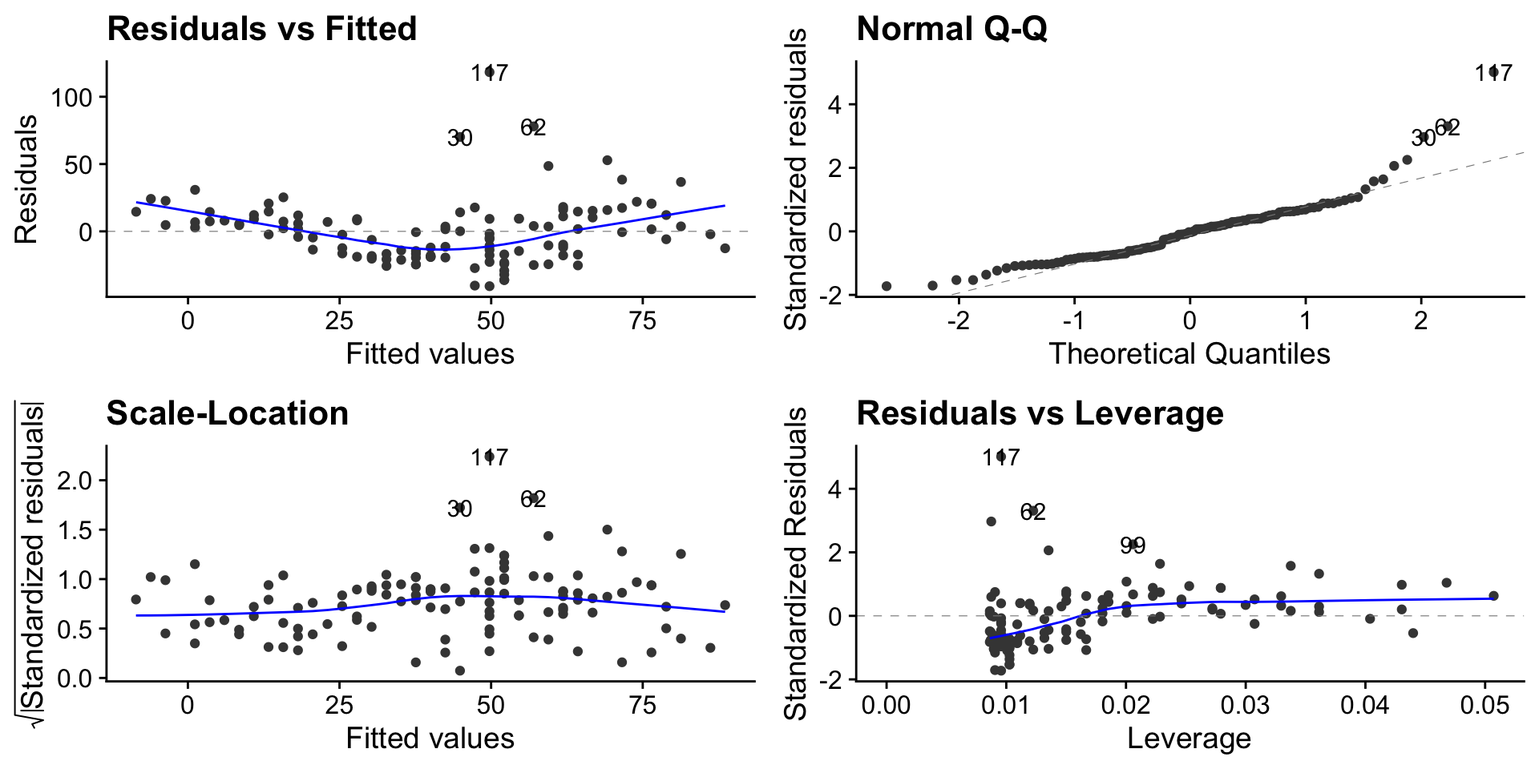
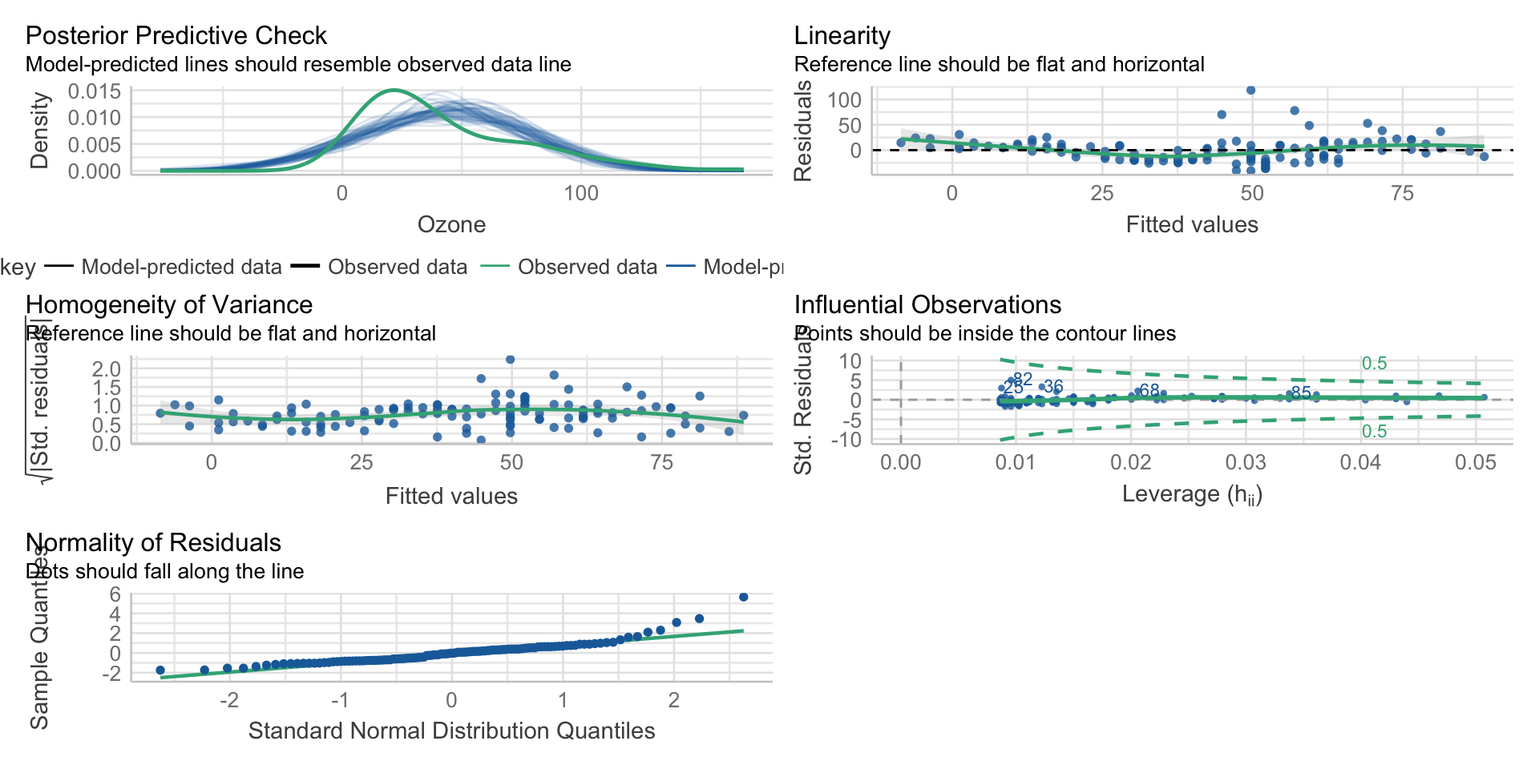
update notes on prediction

diff --git a/index.html b/index.html
@@ -1121,14 +1121,15 @@ F-statistic: 246.8 on 1 and 926 DF,  p-value: &lt; 2.2e-16</code></pre>
 </div>
 </div>
 <div class="fragment">
-<p>What is the predicted child heights for parents of height 70, 72, and 73 inches?</p>
-<div class="cell" data-hash="index_cache/revealjs/unnamed-chunk-33_a9f883f6fe72900d9447d484e6cf95c1">
-<div class="sourceCode cell-code" id="cb48"><pre class="sourceCode numberSource r number-lines code-with-copy"><code class="sourceCode r"><span id="cb48-1"><a href="#cb48-1"></a><span class="fu">predict</span>(fit, <span class="fu">data.frame</span>(<span class="at">parent =</span> <span class="fu">c</span>(<span class="dv">70</span>, <span class="dv">72</span>, <span class="dv">73</span>)))</span></code><button title="Copy to Clipboard" class="code-copy-button"><i class="bi"></i></button></pre></div>
-<div class="cell-output cell-output-stdout">
-<pre><code>       1        2        3 
-69.18187 70.47445 71.12074 </code></pre>
-</div>
-</div>
+<ul>
+<li>Need to consider:
+<ul>
+<li>Prediction quality</li>
+<li>Prediction performance</li>
+<li><strong>Week 9 - Predictive modelling</strong></li>
+</ul>
+</li>
+</ul>
 </div>
 </section></section><section><section id="transformations" class="title-slide slide level1 center"><h1>Transformations</h1>
 <p>What if assumptions are not met, or we want to improve the model?</p>
@@ -1163,9 +1164,9 @@ F-statistic: 246.8 on 1 and 926 DF,  p-value: &lt; 2.2e-16</code></pre>
 </div>
 </section><section id="new-example-air-quality" class="slide level2"><h2>New example: Air quality</h2>
 <p>Daily air quality measurements in New York, May to September 1973</p>
-<div class="cell" data-hash="index_cache/revealjs/unnamed-chunk-34_cd545899572bb9349321493e538954b6">
-<div class="sourceCode cell-code" id="cb50"><pre class="sourceCode numberSource r number-lines code-with-copy"><code class="sourceCode r"><span id="cb50-1"><a href="#cb50-1"></a><span class="fu">library</span>(tidyverse)</span>
-<span id="cb50-2"><a href="#cb50-2"></a><span class="fu">glimpse</span>(airquality)</span></code><button title="Copy to Clipboard" class="code-copy-button"><i class="bi"></i></button></pre></div>
+<div class="cell" data-hash="index_cache/revealjs/unnamed-chunk-33_6de077b5b53d178e723e55b09e2f71c2">
+<div class="sourceCode cell-code" id="cb48"><pre class="sourceCode numberSource r number-lines code-with-copy"><code class="sourceCode r"><span id="cb48-1"><a href="#cb48-1"></a><span class="fu">library</span>(tidyverse)</span>
+<span id="cb48-2"><a href="#cb48-2"></a><span class="fu">glimpse</span>(airquality)</span></code><button title="Copy to Clipboard" class="code-copy-button"><i class="bi"></i></button></pre></div>
 <div class="cell-output cell-output-stdout">
 <pre><code>Rows: 153
 Columns: 6
@@ -1178,28 +1179,28 @@ $ Day     &lt;int&gt; 1, 2, 3, 4, 5, 6, 7, 8, 9, 10, 11, 12, 13, 14, 15, 16, 17,
 </div>
 </div>
 </section><section id="is-ozone-concentration-influenced-by-temperature" class="slide level2"><h2>Is Ozone concentration influenced by Temperature?</h2>
-<div class="cell" data-hash="index_cache/revealjs/unnamed-chunk-35_845368f028b7356d26759ef4d1d0266f">
-<div class="sourceCode cell-code" id="cb52"><pre class="sourceCode numberSource r number-lines code-with-copy"><code class="sourceCode r"><span id="cb52-1"><a href="#cb52-1"></a><span class="fu">ggplot</span>(airquality, <span class="fu">aes</span>(<span class="at">x =</span> Temp, <span class="at">y =</span> Ozone)) <span class="sc">+</span></span>
-<span id="cb52-2"><a href="#cb52-2"></a>  <span class="fu">geom_point</span>(<span class="at">alpha =</span> .<span class="dv">2</span>, <span class="at">size =</span> <span class="dv">3</span>) <span class="sc">+</span></span>
-<span id="cb52-3"><a href="#cb52-3"></a>  <span class="fu">labs</span>(</span>
-<span id="cb52-4"><a href="#cb52-4"></a>    <span class="at">x =</span> <span class="fu">expression</span>(<span class="st">"Temperature "</span> ( degree<span class="sc">~</span>C)), </span>
-<span id="cb52-5"><a href="#cb52-5"></a>    <span class="at">y =</span> <span class="st">"Ozone (parts per billion)"</span>) <span class="sc">+</span></span>
-<span id="cb52-6"><a href="#cb52-6"></a>  <span class="fu">geom_smooth</span>(<span class="at">method =</span> <span class="st">"lm"</span>, <span class="at">se =</span> <span class="cn">FALSE</span>)</span></code><button title="Copy to Clipboard" class="code-copy-button"><i class="bi"></i></button></pre></div>
+<div class="cell" data-hash="index_cache/revealjs/unnamed-chunk-34_7fad00c8ccb6ff2696fd3ac916247622">
+<div class="sourceCode cell-code" id="cb50"><pre class="sourceCode numberSource r number-lines code-with-copy"><code class="sourceCode r"><span id="cb50-1"><a href="#cb50-1"></a><span class="fu">ggplot</span>(airquality, <span class="fu">aes</span>(<span class="at">x =</span> Temp, <span class="at">y =</span> Ozone)) <span class="sc">+</span></span>
+<span id="cb50-2"><a href="#cb50-2"></a>  <span class="fu">geom_point</span>(<span class="at">alpha =</span> .<span class="dv">2</span>, <span class="at">size =</span> <span class="dv">3</span>) <span class="sc">+</span></span>
+<span id="cb50-3"><a href="#cb50-3"></a>  <span class="fu">labs</span>(</span>
+<span id="cb50-4"><a href="#cb50-4"></a>    <span class="at">x =</span> <span class="fu">expression</span>(<span class="st">"Temperature "</span> ( degree<span class="sc">~</span>C)), </span>
+<span id="cb50-5"><a href="#cb50-5"></a>    <span class="at">y =</span> <span class="st">"Ozone (parts per billion)"</span>) <span class="sc">+</span></span>
+<span id="cb50-6"><a href="#cb50-6"></a>  <span class="fu">geom_smooth</span>(<span class="at">method =</span> <span class="st">"lm"</span>, <span class="at">se =</span> <span class="cn">FALSE</span>)</span></code><button title="Copy to Clipboard" class="code-copy-button"><i class="bi"></i></button></pre></div>
 
 </div>
-<img data-src="index_files/figure-revealjs/unnamed-chunk-35-1.png" width="960" class="r-stretch"></section><section id="assumption-checks" class="slide level2"><h2>Assumption checks</h2>
-<div class="cell" data-hash="index_cache/revealjs/unnamed-chunk-36_71796e8d2acdfab81230031130b2be9d">
-<div class="sourceCode cell-code" id="cb53"><pre class="sourceCode numberSource r number-lines code-with-copy"><code class="sourceCode r"><span id="cb53-1"><a href="#cb53-1"></a>fit <span class="ot">&lt;-</span> <span class="fu">lm</span>(Ozone <span class="sc">~</span> Temp, <span class="at">data =</span> airquality)</span>
-<span id="cb53-2"><a href="#cb53-2"></a><span class="fu">library</span>(ggfortify)</span>
-<span id="cb53-3"><a href="#cb53-3"></a><span class="fu">autoplot</span>(fit)</span></code><button title="Copy to Clipboard" class="code-copy-button"><i class="bi"></i></button></pre></div>
+<img data-src="index_files/figure-revealjs/unnamed-chunk-34-1.png" width="960" class="r-stretch"></section><section id="assumption-checks" class="slide level2"><h2>Assumption checks</h2>
+<div class="cell" data-hash="index_cache/revealjs/unnamed-chunk-35_8ea8427c4d700d1098eff93bf813678f">
+<div class="sourceCode cell-code" id="cb51"><pre class="sourceCode numberSource r number-lines code-with-copy"><code class="sourceCode r"><span id="cb51-1"><a href="#cb51-1"></a>fit <span class="ot">&lt;-</span> <span class="fu">lm</span>(Ozone <span class="sc">~</span> Temp, <span class="at">data =</span> airquality)</span>
+<span id="cb51-2"><a href="#cb51-2"></a><span class="fu">library</span>(ggfortify)</span>
+<span id="cb51-3"><a href="#cb51-3"></a><span class="fu">autoplot</span>(fit)</span></code><button title="Copy to Clipboard" class="code-copy-button"><i class="bi"></i></button></pre></div>
+
+</div>
+<img data-src="index_files/figure-revealjs/unnamed-chunk-35-1.png" width="960" class="r-stretch"><p>Is a simple liner model appropriate?</p>
+</section><section class="slide level2"><div class="cell" data-hash="index_cache/revealjs/unnamed-chunk-36_d289d4b90542f43c6366b9c4bf81acd4">
+<div class="sourceCode cell-code" id="cb52"><pre class="sourceCode numberSource r number-lines code-with-copy"><code class="sourceCode r"><span id="cb52-1"><a href="#cb52-1"></a>performance<span class="sc">::</span><span class="fu">check_model</span>(fit)</span></code><button title="Copy to Clipboard" class="code-copy-button"><i class="bi"></i></button></pre></div>
 
 </div>
 <img data-src="index_files/figure-revealjs/unnamed-chunk-36-1.png" width="960" class="r-stretch"><p>Is a simple liner model appropriate?</p>
-</section><section class="slide level2"><div class="cell" data-hash="index_cache/revealjs/unnamed-chunk-37_143627f7b2244fa7b68e29f8ae8ec6b2">
-<div class="sourceCode cell-code" id="cb54"><pre class="sourceCode numberSource r number-lines code-with-copy"><code class="sourceCode r"><span id="cb54-1"><a href="#cb54-1"></a>performance<span class="sc">::</span><span class="fu">check_model</span>(fit)</span></code><button title="Copy to Clipboard" class="code-copy-button"><i class="bi"></i></button></pre></div>
-
-</div>
-<img data-src="index_files/figure-revealjs/unnamed-chunk-37-1.png" width="960" class="r-stretch"><p>Is a simple liner model appropriate?</p>
 <div class="fragment">
 <p><em>Depends on your threshold for what is acceptable.</em></p>
 </div>
@@ -1232,15 +1233,15 @@ $ Day     &lt;int&gt; 1, 2, 3, 4, 5, 6, 7, 8, 9, 10, 11, 12, 13, 14, 15, 16, 17,
 <div class="fragment">
 <!-- -->
 <h3 id="before">Before</h3>
-<div class="cell" data-hash="index_cache/revealjs/unnamed-chunk-38_bcfc55d94725dc3f1236fb5b12b4eb56">
-<div class="sourceCode cell-code" id="cb55"><pre class="sourceCode numberSource r number-lines code-with-copy"><code class="sourceCode r"><span id="cb55-1"><a href="#cb55-1"></a><span class="fu">ggplot</span>(airquality, <span class="fu">aes</span>(<span class="at">x =</span> Temp, <span class="at">y =</span> Ozone)) <span class="sc">+</span></span>
-<span id="cb55-2"><a href="#cb55-2"></a>  <span class="fu">geom_point</span>(<span class="at">alpha =</span> .<span class="dv">2</span>, <span class="at">size =</span> <span class="dv">3</span>) <span class="sc">+</span></span>
-<span id="cb55-3"><a href="#cb55-3"></a>  <span class="fu">labs</span>(</span>
-<span id="cb55-4"><a href="#cb55-4"></a>    <span class="at">x =</span> <span class="fu">expression</span>(<span class="st">"Temperature "</span> ( degree<span class="sc">~</span>C)), </span>
-<span id="cb55-5"><a href="#cb55-5"></a>    <span class="at">y =</span> <span class="st">"Ozone (parts per billion)"</span>) <span class="sc">+</span></span>
-<span id="cb55-6"><a href="#cb55-6"></a>  <span class="fu">geom_smooth</span>(<span class="at">method =</span> <span class="st">"lm"</span>, <span class="at">se =</span> <span class="cn">FALSE</span>) </span></code><button title="Copy to Clipboard" class="code-copy-button"><i class="bi"></i></button></pre></div>
+<div class="cell" data-hash="index_cache/revealjs/unnamed-chunk-37_54f1d385d7f368b426f0b7788a43b6b4">
+<div class="sourceCode cell-code" id="cb53"><pre class="sourceCode numberSource r number-lines code-with-copy"><code class="sourceCode r"><span id="cb53-1"><a href="#cb53-1"></a><span class="fu">ggplot</span>(airquality, <span class="fu">aes</span>(<span class="at">x =</span> Temp, <span class="at">y =</span> Ozone)) <span class="sc">+</span></span>
+<span id="cb53-2"><a href="#cb53-2"></a>  <span class="fu">geom_point</span>(<span class="at">alpha =</span> .<span class="dv">2</span>, <span class="at">size =</span> <span class="dv">3</span>) <span class="sc">+</span></span>
+<span id="cb53-3"><a href="#cb53-3"></a>  <span class="fu">labs</span>(</span>
+<span id="cb53-4"><a href="#cb53-4"></a>    <span class="at">x =</span> <span class="fu">expression</span>(<span class="st">"Temperature "</span> ( degree<span class="sc">~</span>C)), </span>
+<span id="cb53-5"><a href="#cb53-5"></a>    <span class="at">y =</span> <span class="st">"Ozone (parts per billion)"</span>) <span class="sc">+</span></span>
+<span id="cb53-6"><a href="#cb53-6"></a>  <span class="fu">geom_smooth</span>(<span class="at">method =</span> <span class="st">"lm"</span>, <span class="at">se =</span> <span class="cn">FALSE</span>) </span></code><button title="Copy to Clipboard" class="code-copy-button"><i class="bi"></i></button></pre></div>
 <div class="cell-output-display">
-<p><img data-src="index_files/figure-revealjs/unnamed-chunk-38-1.png" width="960"></p>
+<p><img data-src="index_files/figure-revealjs/unnamed-chunk-37-1.png" width="960"></p>
 </div>
 </div>
 </div>
@@ -1248,15 +1249,15 @@ $ Day     &lt;int&gt; 1, 2, 3, 4, 5, 6, 7, 8, 9, 10, 11, 12, 13, 14, 15, 16, 17,
 <div class="fragment">
 <!-- -->
 <h3 id="after">After</h3>
-<div class="cell" data-hash="index_cache/revealjs/unnamed-chunk-39_02049b564a57d72c067eb7b870795fe6">
-<div class="sourceCode cell-code" id="cb56" data-code-line-numbers="2"><pre class="sourceCode numberSource r number-lines code-with-copy"><code class="sourceCode r"><span id="cb56-1"><a href="#cb56-1"></a><span class="fu">ggplot</span>(airquality, <span class="fu">aes</span>(<span class="at">x =</span> Temp, <span class="at">y =</span> <span class="fu">log</span>(Ozone))) <span class="sc">+</span></span>
-<span id="cb56-2"><a href="#cb56-2"></a>  <span class="fu">geom_point</span>(<span class="at">alpha =</span> .<span class="dv">2</span>, <span class="at">size =</span> <span class="dv">3</span>) <span class="sc">+</span></span>
-<span id="cb56-3"><a href="#cb56-3"></a>  <span class="fu">labs</span>(</span>
-<span id="cb56-4"><a href="#cb56-4"></a>    <span class="at">x =</span> <span class="fu">expression</span>(<span class="st">"Temperature "</span> ( degree<span class="sc">~</span>C)), </span>
-<span id="cb56-5"><a href="#cb56-5"></a>    <span class="at">y =</span> <span class="st">"Ozone (parts per billion)"</span>) <span class="sc">+</span></span>
-<span id="cb56-6"><a href="#cb56-6"></a>  <span class="fu">geom_smooth</span>(<span class="at">method =</span> <span class="st">"lm"</span>, <span class="at">se =</span> <span class="cn">FALSE</span>) </span></code><button title="Copy to Clipboard" class="code-copy-button"><i class="bi"></i></button></pre></div>
+<div class="cell" data-hash="index_cache/revealjs/unnamed-chunk-38_79198f070dedcf0ae729b3e7a6e08c25">
+<div class="sourceCode cell-code" id="cb54" data-code-line-numbers="2"><pre class="sourceCode numberSource r number-lines code-with-copy"><code class="sourceCode r"><span id="cb54-1"><a href="#cb54-1"></a><span class="fu">ggplot</span>(airquality, <span class="fu">aes</span>(<span class="at">x =</span> Temp, <span class="at">y =</span> <span class="fu">log</span>(Ozone))) <span class="sc">+</span></span>
+<span id="cb54-2"><a href="#cb54-2"></a>  <span class="fu">geom_point</span>(<span class="at">alpha =</span> .<span class="dv">2</span>, <span class="at">size =</span> <span class="dv">3</span>) <span class="sc">+</span></span>
+<span id="cb54-3"><a href="#cb54-3"></a>  <span class="fu">labs</span>(</span>
+<span id="cb54-4"><a href="#cb54-4"></a>    <span class="at">x =</span> <span class="fu">expression</span>(<span class="st">"Temperature "</span> ( degree<span class="sc">~</span>C)), </span>
+<span id="cb54-5"><a href="#cb54-5"></a>    <span class="at">y =</span> <span class="st">"Ozone (parts per billion)"</span>) <span class="sc">+</span></span>
+<span id="cb54-6"><a href="#cb54-6"></a>  <span class="fu">geom_smooth</span>(<span class="at">method =</span> <span class="st">"lm"</span>, <span class="at">se =</span> <span class="cn">FALSE</span>) </span></code><button title="Copy to Clipboard" class="code-copy-button"><i class="bi"></i></button></pre></div>
 <div class="cell-output-display">
-<p><img data-src="index_files/figure-revealjs/unnamed-chunk-39-1.png" width="960"></p>
+<p><img data-src="index_files/figure-revealjs/unnamed-chunk-38-1.png" width="960"></p>
 </div>
 </div>
 </div>
@@ -1264,10 +1265,10 @@ $ Day     &lt;int&gt; 1, 2, 3, 4, 5, 6, 7, 8, 9, 10, 11, 12, 13, 14, 15, 16, 17,
 </div>
 </section><section id="transformations-1" class="slide level2"><h2>Transformations</h2>
 <p>The transformed model is:</p>
-<div class="cell" data-hash="index_cache/revealjs/unnamed-chunk-40_3ce8b6b60850067305db3bd1ccbc943d">
-<div class="sourceCode cell-code" id="cb57"><pre class="sourceCode numberSource r number-lines code-with-copy"><code class="sourceCode r"><span id="cb57-1"><a href="#cb57-1"></a><span class="co"># generate the transformed variable</span></span>
-<span id="cb57-2"><a href="#cb57-2"></a>fit_log <span class="ot">&lt;-</span> <span class="fu">lm</span>(<span class="fu">log</span>(Ozone) <span class="sc">~</span> Temp, <span class="at">data =</span> airquality)</span>
-<span id="cb57-3"><a href="#cb57-3"></a>fit_log</span></code><button title="Copy to Clipboard" class="code-copy-button"><i class="bi"></i></button></pre></div>
+<div class="cell" data-hash="index_cache/revealjs/unnamed-chunk-39_057bf6ee2a7699e9377b64ba4aa19cd2">
+<div class="sourceCode cell-code" id="cb55"><pre class="sourceCode numberSource r number-lines code-with-copy"><code class="sourceCode r"><span id="cb55-1"><a href="#cb55-1"></a><span class="co"># generate the transformed variable</span></span>
+<span id="cb55-2"><a href="#cb55-2"></a>fit_log <span class="ot">&lt;-</span> <span class="fu">lm</span>(<span class="fu">log</span>(Ozone) <span class="sc">~</span> Temp, <span class="at">data =</span> airquality)</span>
+<span id="cb55-3"><a href="#cb55-3"></a>fit_log</span></code><button title="Copy to Clipboard" class="code-copy-button"><i class="bi"></i></button></pre></div>
 <div class="cell-output cell-output-stdout">
 <pre><code>
 Call:
@@ -1289,20 +1290,20 @@ Coefficients:
 <div class="columns">
 <div class="column" style="width:50%;">
 <h3 id="before-1">Before</h3>
-<div class="cell" data-hash="index_cache/revealjs/unnamed-chunk-41_c04abaa1852f242527d1cc0ae020fe7b">
-<details><summary>Code</summary><div class="sourceCode cell-code" id="cb59"><pre class="sourceCode numberSource r number-lines code-with-copy"><code class="sourceCode r"><span id="cb59-1"><a href="#cb59-1"></a><span class="fu">autoplot</span>(fit, <span class="dv">1</span>, <span class="at">ncol =</span> <span class="dv">1</span>) <span class="sc">+</span></span>
-<span id="cb59-2"><a href="#cb59-2"></a>  cowplot<span class="sc">::</span><span class="fu">theme_cowplot</span>(<span class="at">font_size =</span> <span class="dv">24</span>)</span></code><button title="Copy to Clipboard" class="code-copy-button"><i class="bi"></i></button></pre></div>
+<div class="cell" data-hash="index_cache/revealjs/unnamed-chunk-40_e043bbc0715a6427891bba5cf4d08c5b">
+<details><summary>Code</summary><div class="sourceCode cell-code" id="cb57"><pre class="sourceCode numberSource r number-lines code-with-copy"><code class="sourceCode r"><span id="cb57-1"><a href="#cb57-1"></a><span class="fu">autoplot</span>(fit, <span class="dv">1</span>, <span class="at">ncol =</span> <span class="dv">1</span>) <span class="sc">+</span></span>
+<span id="cb57-2"><a href="#cb57-2"></a>  cowplot<span class="sc">::</span><span class="fu">theme_cowplot</span>(<span class="at">font_size =</span> <span class="dv">24</span>)</span></code><button title="Copy to Clipboard" class="code-copy-button"><i class="bi"></i></button></pre></div>
 </details><div class="cell-output-display">
-<p><img data-src="index_files/figure-revealjs/unnamed-chunk-41-1.png" width="960"></p>
+<p><img data-src="index_files/figure-revealjs/unnamed-chunk-40-1.png" width="960"></p>
 </div>
 </div>
 </div><div class="column" style="width:50%;">
 <h3 id="after-1">After</h3>
-<div class="cell" data-hash="index_cache/revealjs/unnamed-chunk-42_1947d4a2767587216f1f65900d3b0672">
-<details><summary>Code</summary><div class="sourceCode cell-code" id="cb60"><pre class="sourceCode numberSource r number-lines code-with-copy"><code class="sourceCode r"><span id="cb60-1"><a href="#cb60-1"></a><span class="fu">autoplot</span>(fit_log, <span class="dv">1</span>, <span class="at">ncol =</span> <span class="dv">1</span>) <span class="sc">+</span></span>
-<span id="cb60-2"><a href="#cb60-2"></a>  cowplot<span class="sc">::</span><span class="fu">theme_cowplot</span>(<span class="at">font_size =</span> <span class="dv">24</span>)</span></code><button title="Copy to Clipboard" class="code-copy-button"><i class="bi"></i></button></pre></div>
+<div class="cell" data-hash="index_cache/revealjs/unnamed-chunk-41_f827352368262892f180f8d86362f539">
+<details><summary>Code</summary><div class="sourceCode cell-code" id="cb58"><pre class="sourceCode numberSource r number-lines code-with-copy"><code class="sourceCode r"><span id="cb58-1"><a href="#cb58-1"></a><span class="fu">autoplot</span>(fit_log, <span class="dv">1</span>, <span class="at">ncol =</span> <span class="dv">1</span>) <span class="sc">+</span></span>
+<span id="cb58-2"><a href="#cb58-2"></a>  cowplot<span class="sc">::</span><span class="fu">theme_cowplot</span>(<span class="at">font_size =</span> <span class="dv">24</span>)</span></code><button title="Copy to Clipboard" class="code-copy-button"><i class="bi"></i></button></pre></div>
 </details><div class="cell-output-display">
-<p><img data-src="index_files/figure-revealjs/unnamed-chunk-42-1.png" width="960"></p>
+<p><img data-src="index_files/figure-revealjs/unnamed-chunk-41-1.png" width="960"></p>
 </div>
 </div>
 </div>
@@ -1311,20 +1312,20 @@ Coefficients:
 <div class="columns">
 <div class="column" style="width:50%;">
 <h3 id="before-2">Before</h3>
-<div class="cell" data-hash="index_cache/revealjs/unnamed-chunk-43_dd1476308f252a5dc738a1ed2a9e2736">
-<details><summary>Code</summary><div class="sourceCode cell-code" id="cb61"><pre class="sourceCode numberSource r number-lines code-with-copy"><code class="sourceCode r"><span id="cb61-1"><a href="#cb61-1"></a><span class="fu">autoplot</span>(fit, <span class="dv">2</span>, <span class="at">ncol =</span> <span class="dv">1</span>) <span class="sc">+</span></span>
-<span id="cb61-2"><a href="#cb61-2"></a>  cowplot<span class="sc">::</span><span class="fu">theme_cowplot</span>(<span class="at">font_size =</span> <span class="dv">24</span>)</span></code><button title="Copy to Clipboard" class="code-copy-button"><i class="bi"></i></button></pre></div>
+<div class="cell" data-hash="index_cache/revealjs/unnamed-chunk-42_636fc71b6366ea43f39aa2b0a1e5d68e">
+<details><summary>Code</summary><div class="sourceCode cell-code" id="cb59"><pre class="sourceCode numberSource r number-lines code-with-copy"><code class="sourceCode r"><span id="cb59-1"><a href="#cb59-1"></a><span class="fu">autoplot</span>(fit, <span class="dv">2</span>, <span class="at">ncol =</span> <span class="dv">1</span>) <span class="sc">+</span></span>
+<span id="cb59-2"><a href="#cb59-2"></a>  cowplot<span class="sc">::</span><span class="fu">theme_cowplot</span>(<span class="at">font_size =</span> <span class="dv">24</span>)</span></code><button title="Copy to Clipboard" class="code-copy-button"><i class="bi"></i></button></pre></div>
 </details><div class="cell-output-display">
-<p><img data-src="index_files/figure-revealjs/unnamed-chunk-43-1.png" width="960"></p>
+<p><img data-src="index_files/figure-revealjs/unnamed-chunk-42-1.png" width="960"></p>
 </div>
 </div>
 </div><div class="column" style="width:50%;">
 <h3 id="after-2">After</h3>
-<div class="cell" data-hash="index_cache/revealjs/unnamed-chunk-44_7db53d27b92838e7b3e2cc2e68f1c4f5">
-<details><summary>Code</summary><div class="sourceCode cell-code" id="cb62"><pre class="sourceCode numberSource r number-lines code-with-copy"><code class="sourceCode r"><span id="cb62-1"><a href="#cb62-1"></a><span class="fu">autoplot</span>(fit_log, <span class="dv">2</span>, <span class="at">ncol =</span> <span class="dv">1</span>) <span class="sc">+</span></span>
-<span id="cb62-2"><a href="#cb62-2"></a>  cowplot<span class="sc">::</span><span class="fu">theme_cowplot</span>(<span class="at">font_size =</span> <span class="dv">24</span>)</span></code><button title="Copy to Clipboard" class="code-copy-button"><i class="bi"></i></button></pre></div>
+<div class="cell" data-hash="index_cache/revealjs/unnamed-chunk-43_f3fedbed68c2c1ba2ffa42adee6311aa">
+<details><summary>Code</summary><div class="sourceCode cell-code" id="cb60"><pre class="sourceCode numberSource r number-lines code-with-copy"><code class="sourceCode r"><span id="cb60-1"><a href="#cb60-1"></a><span class="fu">autoplot</span>(fit_log, <span class="dv">2</span>, <span class="at">ncol =</span> <span class="dv">1</span>) <span class="sc">+</span></span>
+<span id="cb60-2"><a href="#cb60-2"></a>  cowplot<span class="sc">::</span><span class="fu">theme_cowplot</span>(<span class="at">font_size =</span> <span class="dv">24</span>)</span></code><button title="Copy to Clipboard" class="code-copy-button"><i class="bi"></i></button></pre></div>
 </details><div class="cell-output-display">
-<p><img data-src="index_files/figure-revealjs/unnamed-chunk-44-1.png" width="960"></p>
+<p><img data-src="index_files/figure-revealjs/unnamed-chunk-43-1.png" width="960"></p>
 </div>
 </div>
 </div>
@@ -1333,20 +1334,20 @@ Coefficients:
 <div class="columns">
 <div class="column" style="width:50%;">
 <h3 id="before-3">Before</h3>
-<div class="cell" data-hash="index_cache/revealjs/unnamed-chunk-45_2c9f884ce3e4a4d9dfee1f7d9c6c5a18">
-<details><summary>Code</summary><div class="sourceCode cell-code" id="cb63"><pre class="sourceCode numberSource r number-lines code-with-copy"><code class="sourceCode r"><span id="cb63-1"><a href="#cb63-1"></a><span class="fu">autoplot</span>(fit, <span class="dv">3</span>, <span class="at">ncol =</span> <span class="dv">1</span>) <span class="sc">+</span></span>
-<span id="cb63-2"><a href="#cb63-2"></a>  cowplot<span class="sc">::</span><span class="fu">theme_cowplot</span>(<span class="at">font_size =</span> <span class="dv">24</span>)</span></code><button title="Copy to Clipboard" class="code-copy-button"><i class="bi"></i></button></pre></div>
+<div class="cell" data-hash="index_cache/revealjs/unnamed-chunk-44_f541ad6ae704dfeeb05f4446b944ba98">
+<details><summary>Code</summary><div class="sourceCode cell-code" id="cb61"><pre class="sourceCode numberSource r number-lines code-with-copy"><code class="sourceCode r"><span id="cb61-1"><a href="#cb61-1"></a><span class="fu">autoplot</span>(fit, <span class="dv">3</span>, <span class="at">ncol =</span> <span class="dv">1</span>) <span class="sc">+</span></span>
+<span id="cb61-2"><a href="#cb61-2"></a>  cowplot<span class="sc">::</span><span class="fu">theme_cowplot</span>(<span class="at">font_size =</span> <span class="dv">24</span>)</span></code><button title="Copy to Clipboard" class="code-copy-button"><i class="bi"></i></button></pre></div>
 </details><div class="cell-output-display">
-<p><img data-src="index_files/figure-revealjs/unnamed-chunk-45-1.png" width="960"></p>
+<p><img data-src="index_files/figure-revealjs/unnamed-chunk-44-1.png" width="960"></p>
 </div>
 </div>
 </div><div class="column" style="width:50%;">
 <h3 id="after-3">After</h3>
-<div class="cell" data-hash="index_cache/revealjs/unnamed-chunk-46_89503618b20b67a7f091a134fc9d3174">
-<details><summary>Code</summary><div class="sourceCode cell-code" id="cb64"><pre class="sourceCode numberSource r number-lines code-with-copy"><code class="sourceCode r"><span id="cb64-1"><a href="#cb64-1"></a><span class="fu">autoplot</span>(fit_log, <span class="dv">3</span>, <span class="at">ncol =</span> <span class="dv">1</span>) <span class="sc">+</span></span>
-<span id="cb64-2"><a href="#cb64-2"></a>  cowplot<span class="sc">::</span><span class="fu">theme_cowplot</span>(<span class="at">font_size =</span> <span class="dv">24</span>)</span></code><button title="Copy to Clipboard" class="code-copy-button"><i class="bi"></i></button></pre></div>
+<div class="cell" data-hash="index_cache/revealjs/unnamed-chunk-45_36d2d6c2f273ab98563b67878c6e5d18">
+<details><summary>Code</summary><div class="sourceCode cell-code" id="cb62"><pre class="sourceCode numberSource r number-lines code-with-copy"><code class="sourceCode r"><span id="cb62-1"><a href="#cb62-1"></a><span class="fu">autoplot</span>(fit_log, <span class="dv">3</span>, <span class="at">ncol =</span> <span class="dv">1</span>) <span class="sc">+</span></span>
+<span id="cb62-2"><a href="#cb62-2"></a>  cowplot<span class="sc">::</span><span class="fu">theme_cowplot</span>(<span class="at">font_size =</span> <span class="dv">24</span>)</span></code><button title="Copy to Clipboard" class="code-copy-button"><i class="bi"></i></button></pre></div>
 </details><div class="cell-output-display">
-<p><img data-src="index_files/figure-revealjs/unnamed-chunk-46-1.png" width="960"></p>
+<p><img data-src="index_files/figure-revealjs/unnamed-chunk-45-1.png" width="960"></p>
 </div>
 </div>
 </div>
@@ -1355,8 +1356,8 @@ Coefficients:
 <div class="columns">
 <div class="column" style="width:50%;">
 <h3 id="before-4">Before</h3>
-<div class="cell" data-hash="index_cache/revealjs/unnamed-chunk-47_cbf1775ebf08ac746e5d09591cbe3997">
-<div class="sourceCode cell-code" id="cb65"><pre class="sourceCode numberSource r number-lines code-with-copy"><code class="sourceCode r"><span id="cb65-1"><a href="#cb65-1"></a><span class="fu">summary</span>(fit)</span></code><button title="Copy to Clipboard" class="code-copy-button"><i class="bi"></i></button></pre></div>
+<div class="cell" data-hash="index_cache/revealjs/unnamed-chunk-46_4f6f4063c0a4af4602d15592fd524cb8">
+<div class="sourceCode cell-code" id="cb63"><pre class="sourceCode numberSource r number-lines code-with-copy"><code class="sourceCode r"><span id="cb63-1"><a href="#cb63-1"></a><span class="fu">summary</span>(fit)</span></code><button title="Copy to Clipboard" class="code-copy-button"><i class="bi"></i></button></pre></div>
 <div class="cell-output cell-output-stdout">
 <pre><code>
 Call:
@@ -1381,8 +1382,8 @@ F-statistic: 108.5 on 1 and 114 DF,  p-value: &lt; 2.2e-16</code></pre>
 </div>
 </div><div class="column" style="width:50%;">
 <h3 id="after-4">After</h3>
-<div class="cell" data-hash="index_cache/revealjs/unnamed-chunk-48_44938c8617460e6932a181f3430aaa89">
-<div class="sourceCode cell-code" id="cb67"><pre class="sourceCode numberSource r number-lines code-with-copy"><code class="sourceCode r"><span id="cb67-1"><a href="#cb67-1"></a><span class="fu">summary</span>(fit_log)</span></code><button title="Copy to Clipboard" class="code-copy-button"><i class="bi"></i></button></pre></div>
+<div class="cell" data-hash="index_cache/revealjs/unnamed-chunk-47_1d3ae023122100f16f50c51b4d2626cb">
+<div class="sourceCode cell-code" id="cb65"><pre class="sourceCode numberSource r number-lines code-with-copy"><code class="sourceCode r"><span id="cb65-1"><a href="#cb65-1"></a><span class="fu">summary</span>(fit_log)</span></code><button title="Copy to Clipboard" class="code-copy-button"><i class="bi"></i></button></pre></div>
 <div class="cell-output cell-output-stdout">
 <pre><code>
 Call:
@@ -1414,10 +1415,10 @@ F-statistic: 137.8 on 1 and 114 DF,  p-value: &lt; 2.2e-16</code></pre>
 
 </section><section id="can-we-use-more-predictors" class="slide level2" data-auto-animate="true"><h2 data-id="quarto-animate-title">Can we use more predictors?</h2>
 <div class="fragment">
-<div class="cell" data-hash="index_cache/revealjs/unnamed-chunk-49_5d671b3b4f48028ff60b3a207c5a1558">
-<div class="sourceCode cell-code" id="cb69"><pre class="sourceCode numberSource r number-lines code-with-copy" data-id="quarto-animate-code"><code class="sourceCode r hljs"><span id="cb69-1" class="hljs-ln-code"><a href="#cb69-1"></a><span class="fu">plot</span>(airquality)</span></code><button title="Copy to Clipboard" class="code-copy-button"><i class="bi"></i></button></pre></div>
+<div class="cell" data-hash="index_cache/revealjs/unnamed-chunk-48_93111f76f3f6432518523550aa1bd9c9">
+<div class="sourceCode cell-code" id="cb67"><pre class="sourceCode numberSource r number-lines code-with-copy" data-id="quarto-animate-code"><code class="sourceCode r hljs"><span id="cb67-1" class="hljs-ln-code"><a href="#cb67-1"></a><span class="fu">plot</span>(airquality)</span></code><button title="Copy to Clipboard" class="code-copy-button"><i class="bi"></i></button></pre></div>
 <div class="cell-output-display">
-<p><img data-src="index_files/figure-revealjs/unnamed-chunk-49-1.png" width="1920"></p>
+<p><img data-src="index_files/figure-revealjs/unnamed-chunk-48-1.png" width="1920"></p>
 </div>
 </div>
 <p>Can we improve the current model by adding <em>wind</em> and <em>solar radiation</em> as additional predictors?</p>
@@ -1433,9 +1434,9 @@ F-statistic: 137.8 on 1 and 114 DF,  p-value: &lt; 2.2e-16</code></pre>
 </section><section id="can-we-use-more-predictors-2" class="slide level2" data-auto-animate="true"><h2 data-id="quarto-animate-title">Can we use more predictors?</h2>
 <p><span class="math display">\[log(size)_i = \beta_0 + \beta_1Temp_i + \color{royalblue}{\beta_2Solar.R_i + \beta_3Wind_i} + \epsilon_i\]</span></p>
 <div class="fragment">
-<div class="cell" data-hash="index_cache/revealjs/unnamed-chunk-50_24d51fe23e7f0ec7cfe5332be5b81d50">
-<div class="sourceCode cell-code" id="cb70"><pre class="sourceCode numberSource r number-lines code-with-copy" data-id="quarto-animate-code"><code class="sourceCode r hljs"><span id="cb70-1" class="hljs-ln-code"><a href="#cb70-1"></a>multi_fit <span class="ot">&lt;-</span> <span class="fu">lm</span>(<span class="fu">log</span>(Ozone) <span class="sc">~</span> Temp <span class="sc">+</span> Solar.R <span class="sc">+</span> Wind, <span class="at">data =</span> airquality)</span>
-<span id="cb70-2" class="hljs-ln-code"><a href="#cb70-2"></a><span class="fu">summary</span>(multi_fit)</span></code><button title="Copy to Clipboard" class="code-copy-button"><i class="bi"></i></button></pre></div>
+<div class="cell" data-hash="index_cache/revealjs/unnamed-chunk-49_60a4901a1f50d08f7b6bc79ccb3d331f">
+<div class="sourceCode cell-code" id="cb68"><pre class="sourceCode numberSource r number-lines code-with-copy" data-id="quarto-animate-code"><code class="sourceCode r hljs"><span id="cb68-1" class="hljs-ln-code"><a href="#cb68-1"></a>multi_fit <span class="ot">&lt;-</span> <span class="fu">lm</span>(<span class="fu">log</span>(Ozone) <span class="sc">~</span> Temp <span class="sc">+</span> Solar.R <span class="sc">+</span> Wind, <span class="at">data =</span> airquality)</span>
+<span id="cb68-2" class="hljs-ln-code"><a href="#cb68-2"></a><span class="fu">summary</span>(multi_fit)</span></code><button title="Copy to Clipboard" class="code-copy-button"><i class="bi"></i></button></pre></div>
 <div class="cell-output cell-output-stdout">
 <pre><code>
 Call:
@@ -1493,8 +1494,8 @@ F-statistic: 70.62 on 3 and 107 DF,  p-value: &lt; 2.2e-16</code></pre>
 </ul>
 </div>
 </section><section id="is-mlr-model-better" class="slide level2"><h2>Is MLR model better?</h2>
-<div class="cell" data-hash="index_cache/revealjs/unnamed-chunk-51_342386de0700ed17d771177a53c1276c">
-<div class="sourceCode cell-code" id="cb72"><pre class="sourceCode numberSource r number-lines code-with-copy"><code class="sourceCode r"><span id="cb72-1"><a href="#cb72-1"></a>sjPlot<span class="sc">::</span><span class="fu">tab_model</span>(fit_log, multi_fit, <span class="at">digits =</span> <span class="dv">4</span>, <span class="at">show.ci =</span> <span class="cn">FALSE</span>)</span></code><button title="Copy to Clipboard" class="code-copy-button"><i class="bi"></i></button></pre></div>
+<div class="cell" data-hash="index_cache/revealjs/unnamed-chunk-50_8fd7d7376f2d03b5884770d6255deba2">
+<div class="sourceCode cell-code" id="cb70"><pre class="sourceCode numberSource r number-lines code-with-copy"><code class="sourceCode r"><span id="cb70-1"><a href="#cb70-1"></a>sjPlot<span class="sc">::</span><span class="fu">tab_model</span>(fit_log, multi_fit, <span class="at">digits =</span> <span class="dv">4</span>, <span class="at">show.ci =</span> <span class="cn">FALSE</span>)</span></code><button title="Copy to Clipboard" class="code-copy-button"><i class="bi"></i></button></pre></div>
 <div class="cell-output-display">
 
 <table style="border-collapse:collapse; border:none;">
